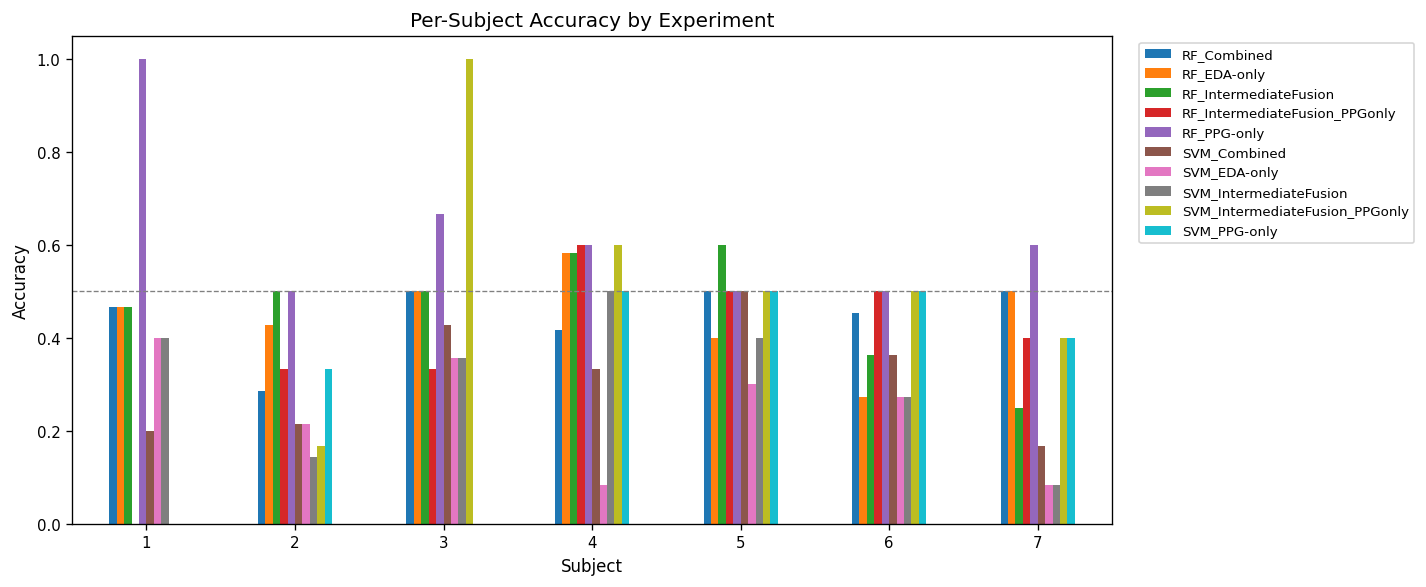
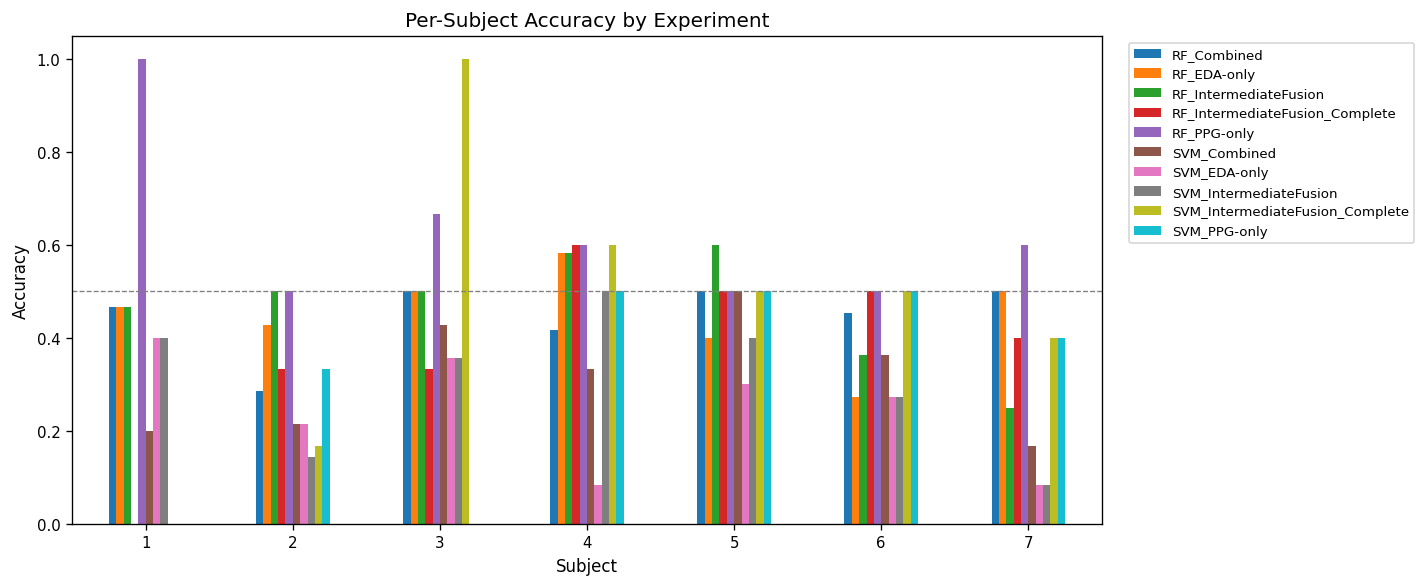
Rename IntermediateFusion_PPGonly to IntermediateFusion_Complete and update results

diff --git a/emotion_recognition_system/models/train.py b/emotion_recognition_system/models/train.py
@@ -122,7 +122,7 @@ def run_all_experiments(csv_path, output_dir="results"):
         eda_cols, ppg_cols, PCA_VARIANCE_THRESHOLD,
     )
     for model_name, model in models.items():
-        exp_name = f"{model_name}_IntermediateFusion_PPGonly"
+        exp_name = f"{model_name}_IntermediateFusion_Complete"
         print(f"Running: {exp_name} ...", end=" ")
 
         fusion_pipeline = SkPipeline([
@@ -132,7 +132,7 @@ def run_all_experiments(csv_path, output_dir="results"):
 
         result = run_loso_cv(fusion_pipeline, X_ppg_avail, y_ppg_avail, g_ppg_avail)
         result["model_name"] = model_name
-        result["modality"] = "IntermediateFusion_PPGonly"
+        result["modality"] = "IntermediateFusion_Complete"
         result["feature_cols"] = combined_cols
         result["n_samples"] = len(X_ppg_avail)
         experiments[exp_name] = result

diff --git a/emotion_recognition_system/models/analysis.py b/emotion_recognition_system/models/analysis.py
@@ -162,7 +162,7 @@ def plot_modality_comparison(experiments, output_dir="results"):
     df = pd.DataFrame(rows)
 
     fig, ax = plt.subplots(figsize=(10, 5))
-    colors = {"EDA-only": "#4878CF", "Combined": "#D65F5F", "PPG-only": "#B47CC7", "IntermediateFusion": "#6ACC65", "IntermediateFusion_PPGonly": "#C5B0D5"}
+    colors = {"EDA-only": "#4878CF", "Combined": "#D65F5F", "PPG-only": "#B47CC7", "IntermediateFusion": "#6ACC65", "IntermediateFusion_Complete": "#C5B0D5"}
 
     x = np.arange(len(df))
     bars = ax.bar(x, df["F1_macro"], color=[colors.get(m, "grey") for m in df["Modality"]])